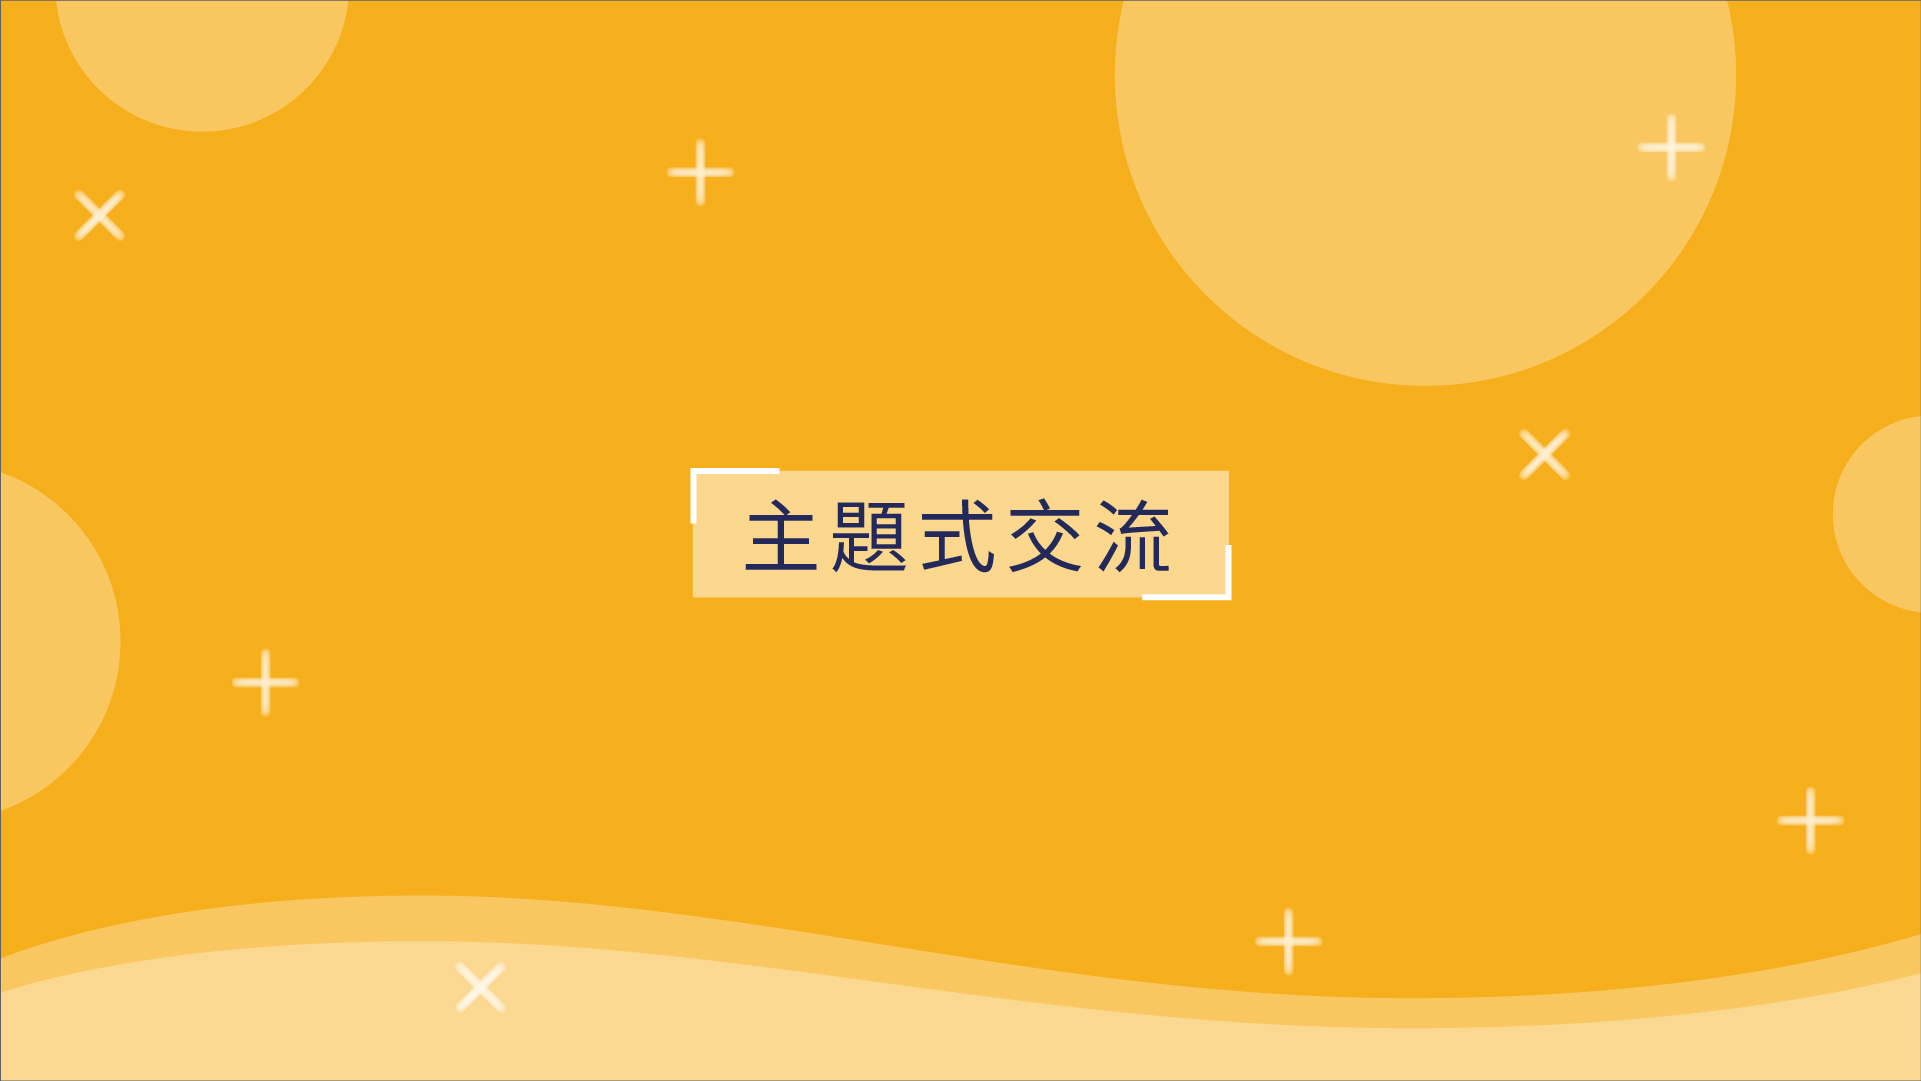
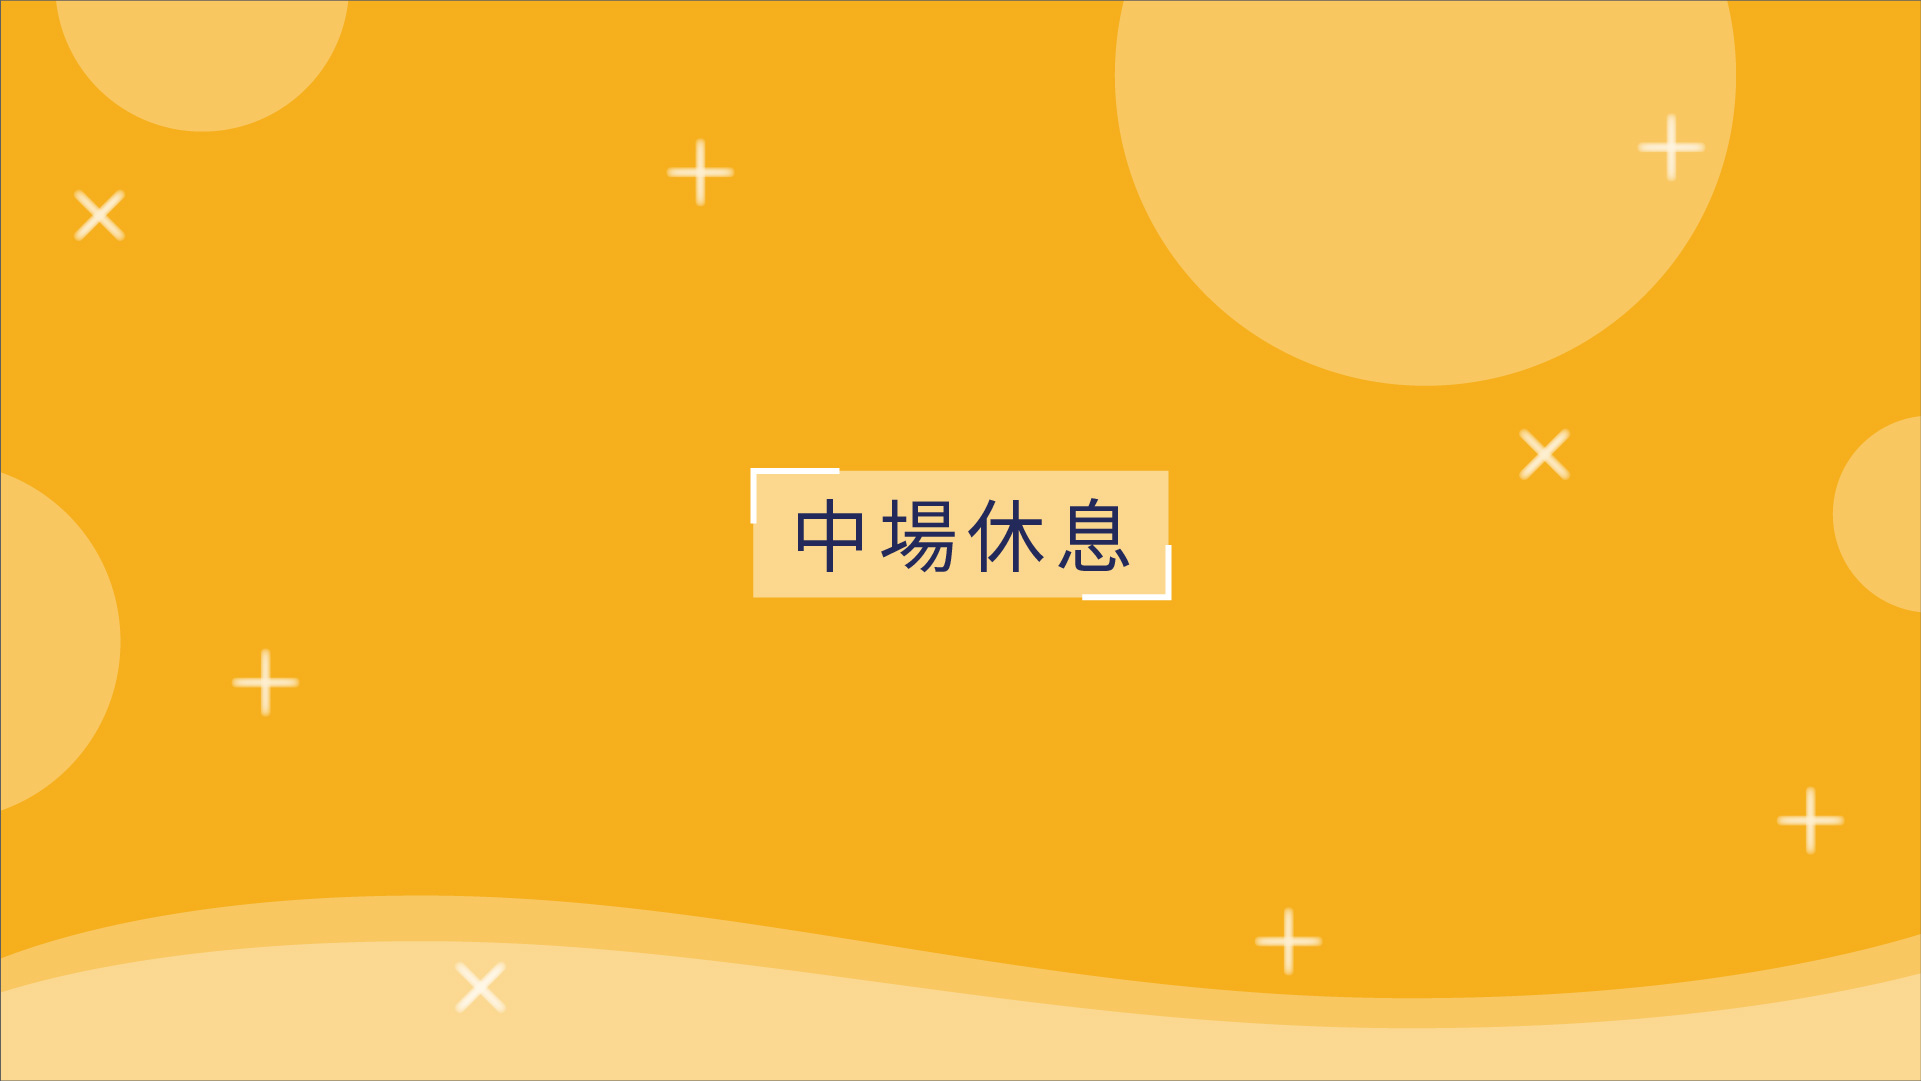
修改：調整PPT流程

Changed region(s): [[0.3436, 0.4274, 0.6559, 0.58]]

diff --git a/ppt/index.html b/ppt/index.html
@@ -66,6 +66,10 @@
             id="toggleFullScreen"
             class="btn btn-outline-primary me-3"
             style="width: 64px"
+            :style="(currentIndex===17)?{
+              color: 'rgba(0,0,0,0)',
+              borderColor: 'rgba(0,0,0,0)',
+              background: 'rgba(0,0,0,0)'}:{}"
             @click="toggleFullScreen"
           >
             <i class="fa-solid fa-up-right-and-down-left-from-center"></i>
@@ -75,6 +79,10 @@
             id="preSwitchImg"
             class="btn me-3"
             style="width: 64px"
+            :style="(currentIndex===17)?{
+              color: 'rgba(0,0,0,0)',
+              borderColor: 'rgba(0,0,0,0)',
+              background: 'rgba(0,0,0,0)'}:{}"
             :class="(currentIndex !== 0)?'btn-outline-primary':'disabled'"
             @click="preSwitchImg($event)"
           >
@@ -85,10 +93,25 @@
             id="nextSwitchImg"
             class="btn"
             style="width: 64px"
+            :style="(currentIndex===17)?{
+              color: 'rgba(0,0,0,0)',
+              borderColor: 'rgba(0,0,0,0)',
+              background: 'rgba(0,0,0,0)'}:{}"
             :class="currentIndex !== (totalImgsCnt - 1)?'btn-outline-primary':'disabled'"
             @click="nextSwitchImg($event)"
           >
             <i class="fa-solid fa-caret-right"></i>
+          </button>
+          <button
+            type="button"
+            id="jumpSwitchImg"
+            class="btn ms-3"
+            style="width: 64px"
+            :class="currentIndex !== (totalImgsCnt - 1)?'btn-outline-primary':'disabled'"
+            @click="jumpSwitchImg($event)"
+            v-if="hasFinalGame"
+          >
+            <i class="fa-solid fa-forward"></i>
           </button>
         </div>
       </div>
@@ -124,10 +147,13 @@
               { id: "img-id-23", src: "../img/pptImg/23.jpg", alt: "23" },
               { id: "img-id-24", src: "../img/pptImg/24.jpg", alt: "24" },
               { id: "img-id-25", src: "../img/pptImg/25.jpg", alt: "25" },
+              { id: "img-id-26", src: "../img/pptImg/26.jpg", alt: "26" },
+              { id: "img-id-27", src: "../img/pptImg/27.jpg", alt: "27" },
             ],
 
             totalImgsCnt: 0,
             currentIndex: 0,
+            hasFinalGame: false,
 
             // 全螢幕
             isFullScreen: false,
@@ -140,6 +166,13 @@
               this.currentIndex = 0;
               console.log("第一頁");
             }
+
+            // 跳頁
+            if (this.currentIndex === 14) {
+              this.hasFinalGame = true;
+            } else {
+              this.hasFinalGame = false;
+            }
           },
           nextSwitchImg(event) {
             this.currentIndex++;
@@ -147,6 +180,18 @@
               this.currentIndex = this.totalImgsCnt - 1;
               console.log("最後一頁");
             }
+
+            // 跳頁
+            if (this.currentIndex === 14) {
+              this.hasFinalGame = true;
+            } else {
+              this.hasFinalGame = false;
+            }
+          },
+          // 跳頁，跳過爭冠遊戲
+          jumpSwitchImg(event) {
+            this.currentIndex += 2;
+            this.hasFinalGame = false;
           },
           // 全螢幕
           toggleFullScreen() {
